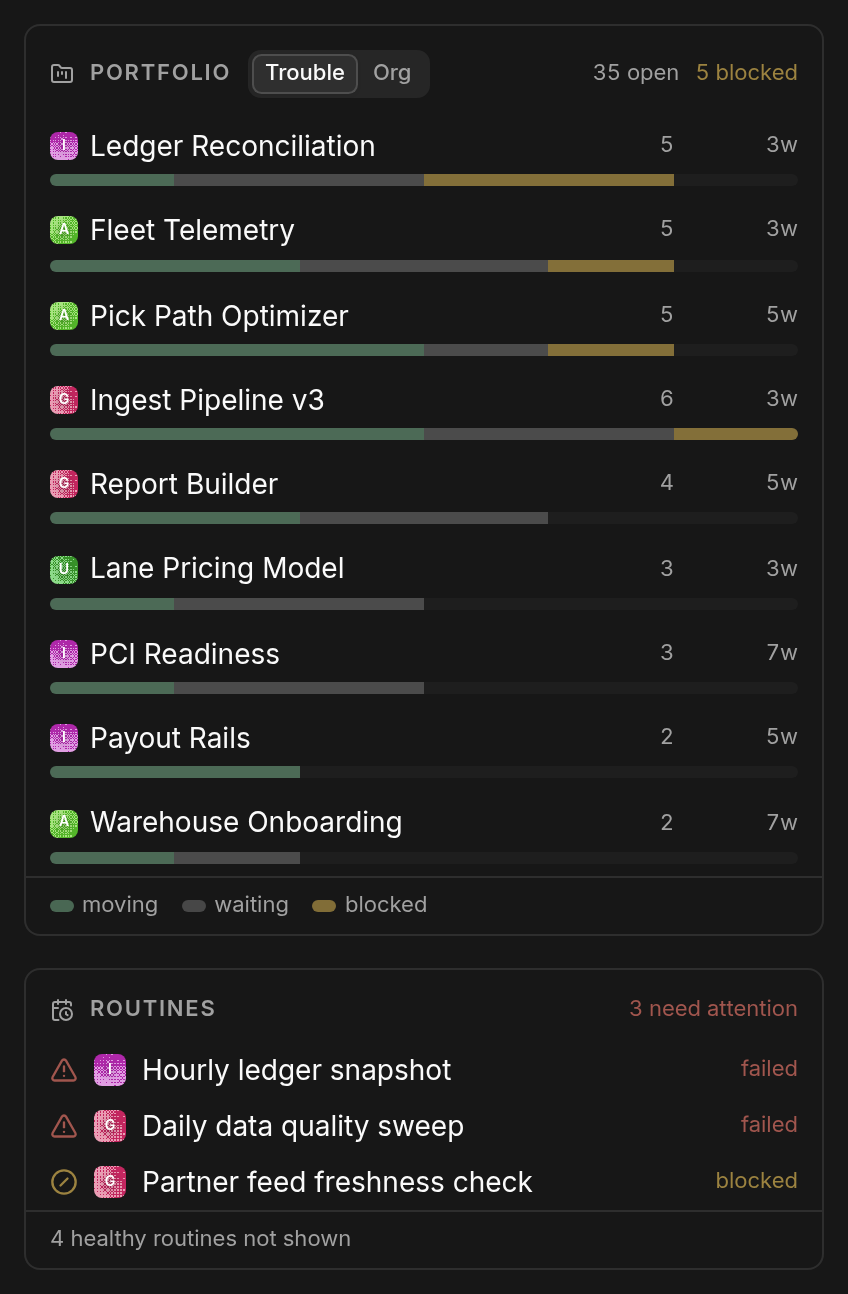
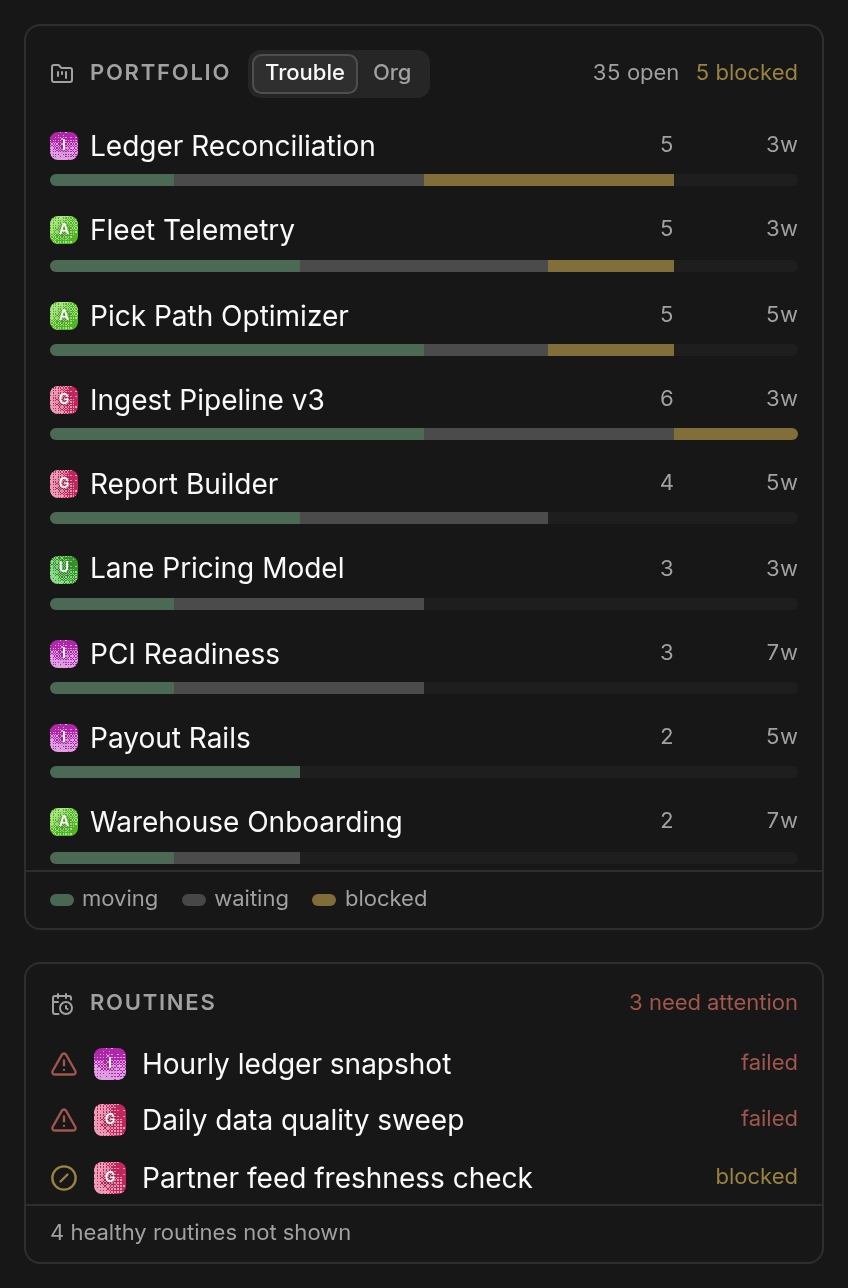
fix(board): the rail is pinned inside the host's scroller, not the window
`100vh - 2rem` was wrong by the height of everything above the board. The host
scrolls an inner `<main>` that starts below its own header and is shorter than
the window, so a rail sized against the viewport is taller than the band it can
ever occupy and the pane at the bottom hangs below the fold — the complaint this
work exists to answer, arrived at from the other side. Measured on the demo
instance at 1512×790: a 758px rail in a 730px scroller, with Routines off the
screen.

`useRailBudget` now finds the scrolling box the rail is pinned inside and gives
the rail that height less its own top and bottom gutter, which is also the
budget it shares out. The `max-h` class stays as what holds until the first
measurement. The ResizeObserver moves to that box too: the rail's height is now
the thing being written, and observing what you write is how a layout loop
starts.

Screenshots recaptured against the demo instance: on a 27-inch screen Recent
shows eleven rows where it was held to five, Portfolio shows all nine projects,
and Routines keeps its three exceptions and its healthy count.

diff --git a/src/ui/components/useRailBudget.test.tsx b/src/ui/components/useRailBudget.test.tsx
@@ -20,10 +20,11 @@ const PANES: TicklerRailPaneSpec[] = [
  * jsdom lays nothing out, so every `offsetHeight` it reports is zero — which is
  * exactly the unmeasured case the hook already has to survive. To exercise the
  * measured case, geometry is stubbed onto the element prototypes by the
- * `data-*` markers the panes carry: 28px headers, 32px rows, and whatever the
- * rail is told it is tall.
+ * `data-*` markers the panes carry: 28px headers, 20px footers, 32px rows, and
+ * a scrolling box of whatever height the test asks for. The rail gets that
+ * height less a 16px gutter top and bottom, which is the hook's own arithmetic.
  */
-function stubGeometry(railHeight: number): () => void {
+function stubGeometry(portHeight: number): () => void {
   const height = (node: HTMLElement): number => {
     if (node.dataset.railHead !== undefined) return 28;
     if (node.dataset.railFoot !== undefined) return 20;
@@ -44,7 +45,7 @@ function stubGeometry(railHeight: number): () => void {
   Object.defineProperty(HTMLElement.prototype, "clientHeight", {
     configurable: true,
     get(this: HTMLElement) {
-      return this.dataset.rail === "rail" ? railHeight : 0;
+      return this.dataset.rail === "port" ? portHeight : 0;
     },
   });
   return () => {
@@ -72,17 +73,22 @@ function Rail({ orgRows, projectRows }: { orgRows: number; projectRows: number }
     );
   };
   return (
-    <div ref={railRef} data-rail="rail">
-      {pane("orgs", orgRows)}
-      {pane("portfolio", projectRows)}
+    // The host's scrolling box, which is what the hook measures the rail
+    // against — not the window.
+    <div data-rail="port" style={{ overflowY: "auto" }}>
+      <div ref={railRef} data-rail="rail">
+        {pane("orgs", orgRows)}
+        {pane("portfolio", projectRows)}
+      </div>
     </div>
   );
 }
 
 let teardown: (() => void)[] = [];
 
-function render(railHeight: number, rows = { orgRows: 12, projectRows: 11 }): HTMLDivElement {
-  teardown.push(stubGeometry(railHeight));
+/** `portHeight` is the scrolling box; the rail gets 32px less than it. */
+function render(portHeight: number, rows = { orgRows: 12, projectRows: 11 }): HTMLDivElement {
+  teardown.push(stubGeometry(portHeight));
   const container = document.createElement("div");
   document.body.appendChild(container);
   const root = createRoot(container);
@@ -105,8 +111,13 @@ const pane = (container: HTMLElement, key: string) =>
   container.querySelector<HTMLElement>(`[data-rail-pane="${key}"]`)!;
 
 describe("useRailBudget", () => {
+  it("gives the rail the band it is pinned inside, not the window", () => {
+    const container = render(632);
+    expect(container.querySelector<HTMLElement>("[data-rail='rail']")!.style.height).toBe("600px");
+  });
+
   it("pins each pane to a header plus whole rows", () => {
-    const container = render(600);
+    const container = render(632);
     // 600px, less two 2px borders, two 28px headers, two 20px footers and one
     // 16px gap, leaves 484px for 32px rows: fifteen of them, handed out
     // round-robin from each pane's minimum of three — eight and seven.
@@ -119,15 +130,15 @@ describe("useRailBudget", () => {
   });
 
   it("gives a taller rail's height away instead of holding a cap", () => {
-    const short = render(600);
-    const tall = render(1000);
+    const short = render(632);
+    const tall = render(1032);
     expect(Number.parseInt(pane(tall, "portfolio").style.height, 10)).toBeGreaterThan(
       Number.parseInt(pane(short, "portfolio").style.height, 10),
     );
   });
 
   it("demotes a pane it cannot seat, and can measure it again once demoted", () => {
-    const container = render(220);
+    const container = render(252);
     expect(pane(container, "orgs").dataset.demoted).toBe("false");
     expect(pane(container, "portfolio").dataset.demoted).toBe("true");
     expect(pane(container, "portfolio").style.height).toBe("");

diff --git a/src/ui/components/useRailBudget.ts b/src/ui/components/useRailBudget.ts
@@ -14,6 +14,25 @@ const FALLBACK_GAP = 16;
 /** Enough rows to find the tallest one without walking a hundred of them. */
 const ROW_SAMPLE = 12;
 
+/** Above and below the rail when it is pinned — the `top-4` it sticks at, twice. */
+const GUTTER = 16;
+
+/**
+ * The box the rail is pinned inside, which is not the window.
+ *
+ * The host scrolls an inner `<main>` rather than the document, and that element
+ * is both shorter than the viewport and offset down it. A rail sized at
+ * `100vh - 2rem` — which is what it was — is therefore taller than the band it
+ * can ever occupy, and the pane at the bottom hangs below the fold: exactly the
+ * complaint this work exists to answer, arrived at from the other direction.
+ */
+function scrollPort(node: HTMLElement): HTMLElement | null {
+  for (let parent = node.parentElement; parent; parent = parent.parentElement) {
+    if (/auto|scroll|overlay/.test(getComputedStyle(parent).overflowY)) return parent;
+  }
+  return node.ownerDocument.scrollingElement as HTMLElement | null;
+}
+
 /**
  * Measure the rail and hand each pane its height.
  *
@@ -41,6 +60,23 @@ export function useRailBudget(specs: readonly TicklerRailPaneSpec[]): {
   const measure = useCallback(() => {
     const rail = railRef.current;
     if (!rail) return;
+    // Narrow: the rail is `display: contents`, its panes are grid items of the
+    // page, and there is no column to share out. Anything written here would
+    // be ignored anyway, so it is taken back rather than left behind for the
+    // next time the window is wide.
+    if (getComputedStyle(rail).display === "contents") {
+      rail.style.height = "";
+      setBudget((current) => {
+        const next = unbudgeted(specs);
+        return sameRailBudget(current, next) ? current : next;
+      });
+      return;
+    }
+    // The rail is told its height here rather than in a class, because the band
+    // it is pinned inside belongs to the host, not to the window.
+    const port = scrollPort(rail);
+    const band = port ? Math.max(0, port.clientHeight - 2 * GUTTER) : 0;
+    rail.style.height = band > 0 ? `${band}px` : "";
     for (const spec of specs) {
       const pane = rail.querySelector<HTMLElement>(`[data-rail-pane="${spec.key}"]`);
       if (!pane) continue;
@@ -63,7 +99,7 @@ export function useRailBudget(specs: readonly TicklerRailPaneSpec[]): {
     }
     const gap = Number.parseFloat(getComputedStyle(rail).rowGap);
     const next = distributeRailHeight(specs, remembered.current, {
-      available: rail.clientHeight,
+      available: band,
       gap: Number.isFinite(gap) ? gap : FALLBACK_GAP,
     });
     setBudget((current) => (sameRailBudget(current, next) ? current : next));
@@ -79,10 +115,13 @@ export function useRailBudget(specs: readonly TicklerRailPaneSpec[]): {
     (node: HTMLDivElement | null) => {
       railRef.current = node;
       if (!node || typeof ResizeObserver === "undefined") return;
-      // The rail's own height is set by the viewport, not by what we write into
-      // the panes, so observing it cannot feed back into itself.
+      // The scrolling box, not the rail: the rail's height is the thing being
+      // written, and observing what you write is how a layout loop starts. The
+      // box it is pinned inside changes only when the window does.
+      const port = scrollPort(node);
+      if (!port) return;
       const observer = new ResizeObserver(() => measure());
-      observer.observe(node);
+      observer.observe(port);
       return () => observer.disconnect();
     },
     [measure],

diff --git a/src/ui/components/TicklerBoardPage.tsx b/src/ui/components/TicklerBoardPage.tsx
@@ -252,15 +252,17 @@ export function TicklerBoardPage({
   return (
     <div data-view="board" className="@container/board flex flex-col gap-4">
       <div className="grid gap-4 @[64rem]/board:grid-cols-[minmax(320px,400px)_minmax(0,1fr)] @[96rem]/board:grid-cols-[440px_minmax(0,1fr)] [.tickler-kiosk_&]:gap-6 [.tickler-kiosk_&]:@[110rem]/board:grid-cols-[540px_minmax(0,1fr)]">
-        {/* Pinned to the viewport rather than capped at it, because a column
-            that knows its own height can spend it: `useRailBudget` measures
-            this box and hands every pane below a height of header plus a whole
-            number of rows (see `distributeRailHeight`). `overflow-y-auto` is
-            the floor under that, for a window too short to seat even the
-            demoted headers. */}
+        {/* A column that knows its own height can spend it: `useRailBudget`
+            gives this box the height of the band it is pinned inside — the
+            host's scrolling `<main>`, which is shorter than the window and
+            offset down it — and hands every pane below a height of header plus
+            a whole number of rows (see `distributeRailHeight`). The `max-h`
+            here is only what holds until that first measurement, and
+            `overflow-y-auto` is the floor under it all, for a window too short
+            to seat even the demoted headers. */}
         <div
           ref={railRef}
-          className="contents @[64rem]/board:sticky @[64rem]/board:top-4 @[64rem]/board:flex @[64rem]/board:h-[calc(100vh-2rem)] @[64rem]/board:min-w-0 @[64rem]/board:flex-col @[64rem]/board:gap-4 @[64rem]/board:self-start @[64rem]/board:overflow-y-auto"
+          className="contents @[64rem]/board:sticky @[64rem]/board:top-4 @[64rem]/board:flex @[64rem]/board:max-h-[calc(100vh-2rem)] @[64rem]/board:min-w-0 @[64rem]/board:flex-col @[64rem]/board:gap-4 @[64rem]/board:self-start @[64rem]/board:overflow-y-auto"
         >
           <section
             data-tickler-companies

diff --git a/docs/board.md b/docs/board.md
@@ -85,9 +85,9 @@ the start of its description.
 
 <img src="screenshots/recent-hover.png" alt="A Recent row's hover card: the ticket, its status, and what the agent last said" width="408">
 
-The list scrolls inside a capped height rather than growing with the fleet, so a
-run starting or finishing never shoves Portfolio and Routines down the page. When
-more tasks were touched today than fit, the footer says how many.
+The list scrolls inside the height the rail gave it rather than growing with the
+fleet, so a run starting or finishing never shoves Portfolio and Routines down
+the page. When more tasks were touched today than fit, the footer says how many.
 
 ## Ordering companies
 
@@ -134,6 +134,19 @@ appears in the page header. See
 Down the left of the board:
 
 ![The portfolio chart and the routine exceptions beneath it](screenshots/portfolio.png)
+
+The rail is as tall as the window and **spends that height** on the panes in it.
+Each pane asks for the fewest rows worth drawing and the most rows worth keeping;
+every pane gets its minimum, and what is left over goes out a row at a time,
+Orgs first, then Portfolio, Recent and Routines. So a bigger monitor shows more
+of each pane rather than more empty rail, and watching another org takes rows
+from the panes that can spare them instead of pushing Portfolio off the bottom of
+the screen.
+
+A pane is always its header plus a whole number of rows — never a row cut in half
+— and one holding rows back says so: **+8 more**. On a window too short to seat a
+pane at all, it falls back to its header, where its own summary already lives
+("3 need attention"), rather than being clipped.
 
 **Recent** — what the fleet is on, as described above.
 
